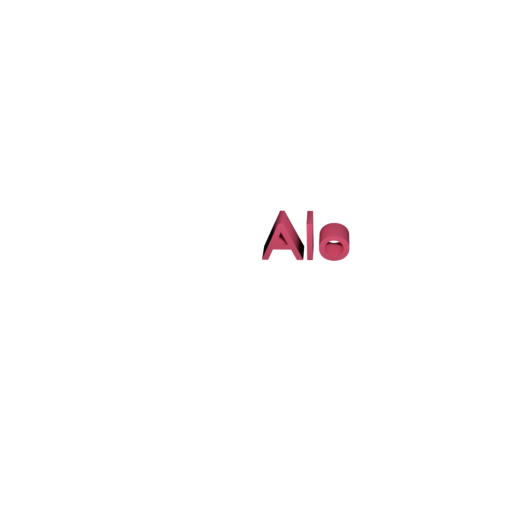
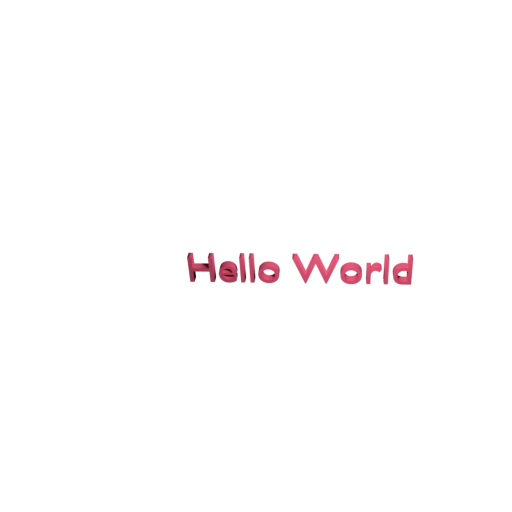
Cleanup

Changed region(s): [[0.3438, 0.4062, 0.8125, 0.5625]]

diff --git a/blendify/myScripts/textScriptRenderer.py b/blendify/myScripts/textScriptRenderer.py
@@ -1,9 +1,9 @@
+import bpy
 
 from blendify import scene
 from blendify.materials import PrincipledBSDFMaterial
 from blendify.colors import UniformColors
 from blendify.renderables.primitives import MeshPrimitive
-from blendify.renderables.primitives import TextMesh
 
 # Set up lighting and camera
 scene.lights.add_point(strength=1000, translation=(4, -2, 4))
@@ -13,18 +13,18 @@ scene.set_perspective_camera((512, 512), fov_x=0.7, rotation=(0.82, 0.42, 0.18, 
 material_text = PrincipledBSDFMaterial()
 color_text = UniformColors((0.8, 0.1, 0.2))
 
-# Create an instance of TextMesh and add it to the scene
-text_mesh = TextMesh(
-    text="Alo",
-    size=1.5,
+scene.renderables.add_text_mesh(
+    text="Hello World",
+    size=1,
     material=material_text,
     colors=color_text,
-    tag="3DText",
-   # translation=(1, -2.5, 2.5),
+    tag="text1",
+    translation=(-0.5, -2, 0),
     rotation=(90, 90, 30, 35)
 )
 
-obj = text_mesh._blender_object
-obj.data.extrude = 0.2
+# Adjustment of the extrusion of text
+#text_object = bpy.data.objects["text1"]
+#text_object.data.extrude = 0.2
 
 scene.render(filepath="blendify/myScripts/text1.png")

diff --git a/blendify/renderables/collection.py b/blendify/renderables/collection.py
@@ -130,7 +130,7 @@ class RenderablesCollection(metaclass=Singleton):
     def add_text_mesh(
             self,
             text: str,
-            font_size: float,
+            size: float,
             material: Union[Material, MaterialList],
             colors: Union[Colors, ColorsList],
             rotation_mode: str = "quaternionWXYZ",
@@ -164,7 +164,7 @@ class RenderablesCollection(metaclass=Singleton):
         """
         tag = self._process_tag(tag, "TextMesh")
         obj = primitives.TextMesh(
-            text=text, font_size=font_size, material=material, colors=colors,
+            text=text, size=size, material=material, colors=colors,
             rotation_mode=rotation_mode, rotation=rotation, translation=translation, tag=tag
         )
         self._renderables[tag] = obj
